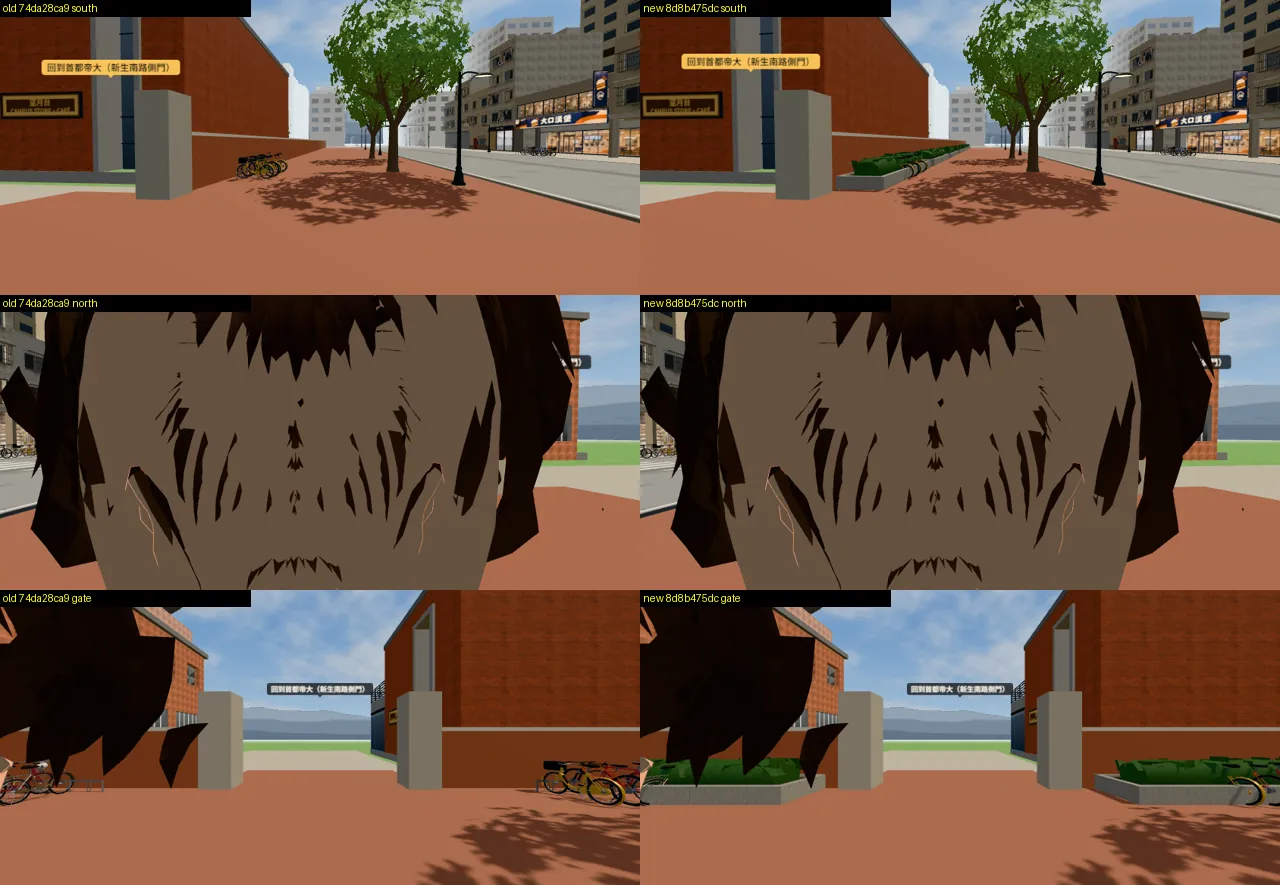
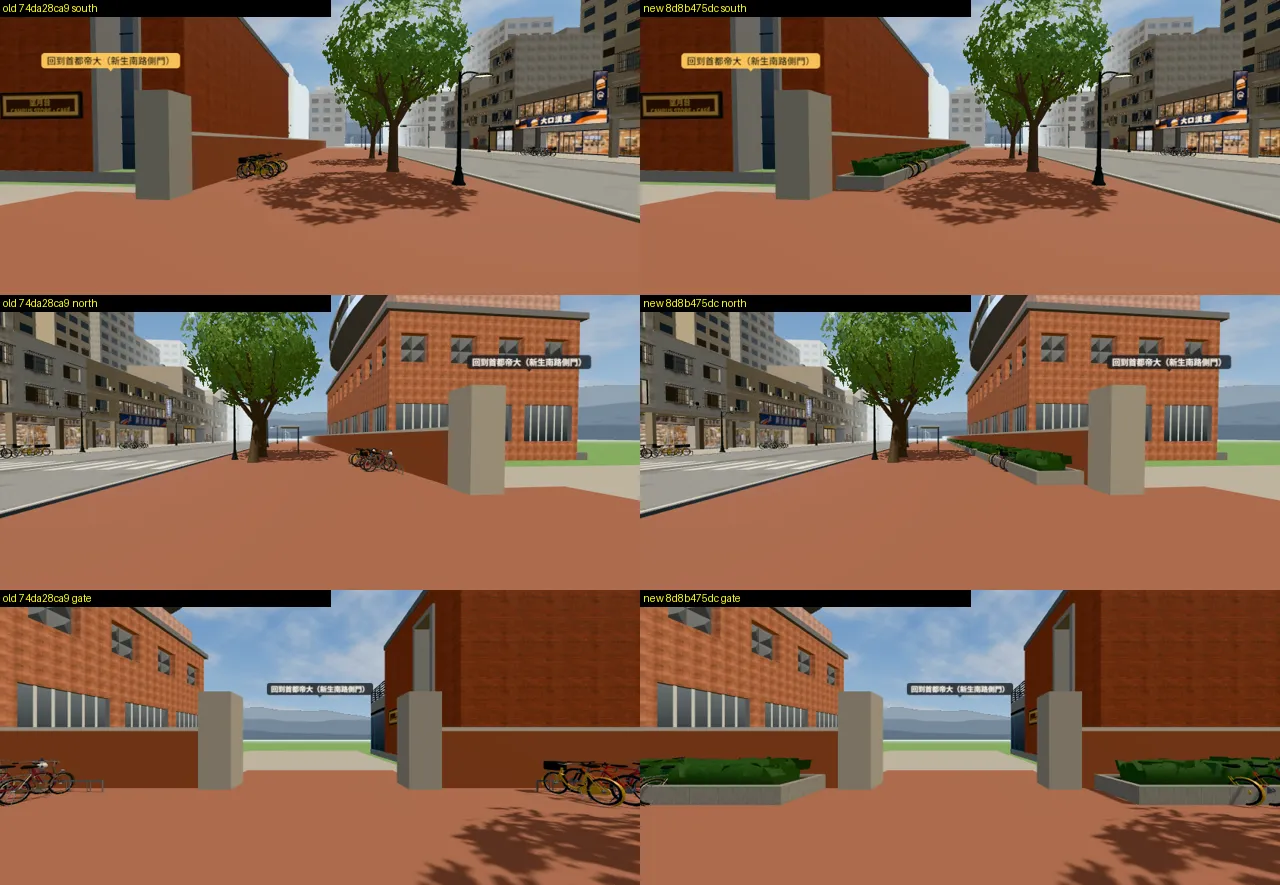
CC（帳號 A）:41 輪：GLASSDIAG（推測色彩空間）交 LAWWW／LAWWW2；園遊會停車位 PASS；學姊走道沒穿桌、找得到她 TEST_BUG→r3；花台三張；X223 八處新舊並排、映月湖加俯視重拍；GIFTHOL 人物頁 PASS
Claude-Session: https://claude.ai/code/session_01TdESzxBpdGoPhdkPD2ENce

diff --git a/docs/story_planning/test_tools/cc/cc_gift_ui_probe.py b/docs/story_planning/test_tools/cc/cc_gift_ui_probe.py
@@ -475,7 +475,7 @@ async def shanlan_case(pg, cdp, orient):
         if want and os.environ.get('SL_FINDHER', '1') == '1':   # GUI_fix2（BB 13:03 ⑤）：送禮還是找得到她＝走到她旁邊按鈕是「和她說話」，說話的選單有「送她禮物…」或「約她去…」
             await L.close_panels(pg, cdp); await pg.wait_for_timeout(800)
             hz = await her_at(pg); tx, tz = hz.get('x', SPOT[0]), hz.get('z', SPOT[1])
-            nb = await pg.evaluate("""(([x,z])=>{ const E=GAME.E; let best=null; for(const r of [0.8,1.0,1.2]) for(let k=0;k<16;k++){ const a=k*Math.PI/8, px=x+Math.sin(a)*r, pz=z+Math.cos(a)*r; if(E.canStand&&E.canStand(px,pz,0.33,0)){ const P=E.player.obj.position; const d=Math.hypot(px-P.x,pz-P.z); if(!best||d<best.d) best={x:+px.toFixed(2),z:+pz.toFixed(2),d}; } } return best; })""", [tx, tz])
+            nb = await pg.evaluate("""(([x,z,sx,sz])=>{ const E=GAME.E; let best=null; for(const r of [0.8,1.0,1.2]) for(let k=0;k<16;k++){ const a=k*Math.PI/8, px=x+Math.sin(a)*r, pz=z+Math.cos(a)*r; if(E.canStand&&E.canStand(px,pz,0.33,0)){ const ds=Math.hypot(px-sx,pz-sz); if(!best||ds>best.dStat) best={x:+px.toFixed(2),z:+pz.toFixed(2),r,dStat:+ds.toFixed(2)}; } } return best; })""", [tx, tz, STAT[0], STAT[1]])   # r3：r2 挑離玩家最近的點＝(4.6,6.5) 就在「看文具」上（按鈕照理是看文具）＝TEST_BUG；改挑離「看文具」最遠、她旁邊 0.8～1.2 m 站得住的點
             okw, s2, fb3 = (False, await st(pg), 0)
             if nb: okw, s2, fb3 = await walk(pg, cdp, ctag + ' 走到學姊旁邊', nb['x'], nb['z'], 0.35)
             for _ in range(6):

diff --git a/docs/story_planning/test_tools/cc/cc_x223_shots_probe.py b/docs/story_planning/test_tools/cc/cc_x223_shots_probe.py
@@ -62,6 +62,8 @@ async def main():
             for i, (name, ang, h) in enumerate((('front', 0.52, 1.7), ('wide', 0.52, max(8, rad * 0.5)))):
                 frm = (round(c[0] + math.sin(ang) * rad * (1.0 if i == 0 else 1.4), 2), h, round(c[2] + dz * math.cos(ang) * rad * (1.0 if i == 0 else 1.4), 2)); at = (round(c[0], 2), round(max(2.0, c[1] * 0.6), 2), round(c[2], 2))
                 fn = 'x223_%s_%s_%s.png' % (TAG, k, name); await snap(pg, fn, frm, at); shots.append({'what': k, 'view': '%s_%s' % (k, name), 'from': frm, 'at': at, 'file': fn})
+            frm = (round(c[0], 2), round(max(18, rad * 1.1), 2), round(c[2] + dz * rad * 0.9, 2)); at = (round(c[0], 2), 0.5, round(c[2], 2))   # r2：映月湖平視被大樓擋住＝加一張高空斜俯視
+            fn = 'x223_%s_%s_air.png' % (TAG, k); await snap(pg, fn, frm, at); shots.append({'what': k, 'view': '%s_air' % k, 'from': frm, 'at': at, 'file': fn})
         json.dump({'boxes': bx, 'shots': shots}, open(os.path.join(OUT, 'x223_%s.json' % TAG), 'w', encoding='utf-8'), ensure_ascii=False, indent=1)
         R.note('拍了 %d 張：%s' % (len(shots), J([s['file'] for s in shots])))
         R.check('沒有 JS 例外', not errs, J(errs[:3]))

diff --git a/docs/story_planning/CC/CC_01_測試執行紀錄.md b/docs/story_planning/CC/CC_01_測試執行紀錄.md
@@ -963,3 +963,22 @@
   - new 用的是 12:39 以前的探針，人物頁、包包那項沒跑到 → RERUN=person，排在 GIFTHOL2 後面。
 - **BB 13:25**：PUTONG v2C 已轉 LAWWW2、LAWWW，GLASSDIAG 數字出來直接給他們兩個（副本 BB）；X223 走 (c)＝只拍遊戲畫面，照片疊圖等 BB 問使用者；PERFCG 8d8b 那組只看 FPS（外觀已判 PASS）；日常失速等 LAWWW2 給角度。
   - 已排 X223SHOT_new（48aa47a5b）／old（74da28ca9），8 處：晨思鐘、行政、文學院、校史館、男一舍、共同、映月湖、研三舍原址。
+
+## 11-10 13:4x（D143 :41 輪）
+- **GLASSDIAG（v2c 74da28ca9／v2b be84c8680）**：by_glass 白天 uDay＝1、cacheKey 有 glassSky3、skyBox 和網格本地包圍盒有重疊＝設定都對、shader 有在跑。
+  - **CC 推測**：色彩空間。THREE.Color(0x6e7882) 被 ColorManagement 轉成線性值 [39.8,47.9,56.9]，混色卻插在 dithering_fragment 之後（已經是 sRGB 輸出）。gap 量到 [44,50,55] 和推算一致。
+  - 東南角：skyBox 的 z 只有北面那一條（−75.37～−74.52）。
+  - 已直接給 LAWWW、LAWWW2（副本 BB）。
+- **X295E_fair_keep_fix r2（8d8b475dc）**：ALL PASS。車停在停車架 (−9.1, 24)，parkOK、站得住、是 parkSpots 第一個（距離 0）；按鈕「校慶園遊會」。
+  - 車的近拍被石台擋住、俯視被樹冠擋住＝截圖看不清楚。shots/fair_bike_and_sis_aisle.webp。
+- **GUI_fix2 r2（8d8b475dc）**：除了「找得到她」都 PASS。
+  - 學姊 (5.8, 6.5) 在兩張文具桌中間的走道，從南北兩側高處看都沒有穿進桌子（同一張圖）。
+  - 「找得到她」FAIL＝**TEST_BUG**：探針挑了離玩家最近、離她 1.2 m 的點 (4.6, 6.5)，那裡就是「看文具」，按鈕本來就該是看文具。r3 改挑離「看文具」最遠的點。
+- **XSPLANT r2（藏玩家）**：三張都看得到，shots/xs_planters_oldnew.webp。新版往南、往北、側門正面都有花崗石矮花台＋杜鵑，舊版是空的人行道和停腳踏車。
+- **X223SHOT（48aa47a5b vs 74da28ca9，桌機 1280×720，藏玩家路人）**：shots/x223_oldnew_1.webp、x223_oldnew_2.webp。
+  - 晨思鐘：四柱瓦頂鐘亭 → 黑色細鋼管、無頂鐘架（兩道圓環）。
+  - 行政大樓：米黃 → 紅磚。文學院：紅 → 土黃面磚。校史館：紅 → 土黃面磚。
+  - 男一舍：樓梯塔鏤空花磚 → 灰清水模＋一排圓窗。共同教學館：土黃 → 紅磚，西翼米色。
+  - 研三舍：那一棟不見了，原址看過去是國際學苑（招牌「國際學苑」）。
+  - 映月湖：平視兩張被旁邊大樓擋住（自動鏡頭選錯）；遠看隱約看得到湖邊有細枝的樹（垂柳）。r2 加高空斜俯視重拍。
+- **GIFTHOL_new r2（509b54c2d）**：ALL PASS。xmas、birthday 送 love 以後，包包沒有那一樣；人物頁「她喜歡」有它；xmas 她回送的「一盒太陽餅（2025 的聖誕節）」也在「她送的」。
